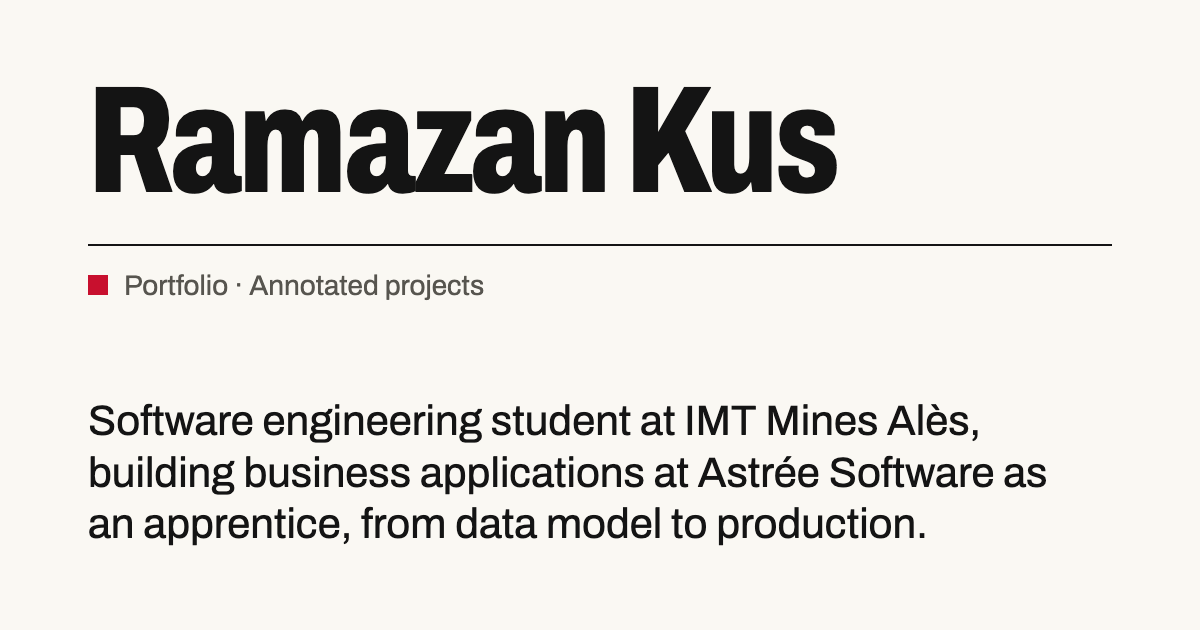
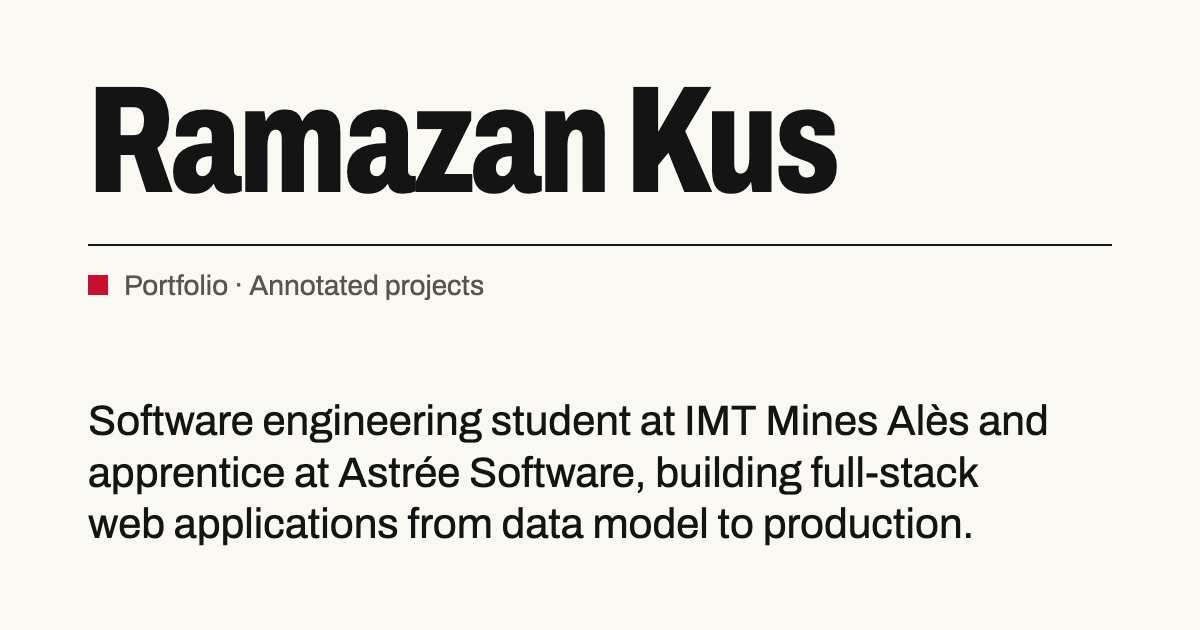
content: describe work as full-stack web applications
The pitch covered only the apprenticeship ("business applications");
personal and school projects are web applications too. Updates the
campaign pitch, CONTENU.md §3 and the regenerated share images.

Changed region(s): [[0.0617, 0.7238, 0.8942, 0.7841], [0.0617, 0.8143, 0.8017, 0.8746], [0.8017, 0.6333, 0.8942, 0.6937]]

diff --git a/scripts/og-image.html b/scripts/og-image.html
@@ -83,16 +83,16 @@
       <div class="header">Portfolio · Projets commentés</div>
       <p>
         Élève ingénieur à IMT Mines Alès, en alternance chez Astrée Software, je
-        développe des applications métier, du modèle de données à la mise en
-        production.
+        développe des applications web full-stack, du modèle de données à la
+        mise en production.
       </p>
     </section>
     <section id="en" lang="en">
       <h1>Ramazan Kus</h1>
       <div class="header">Portfolio · Annotated projects</div>
       <p>
-        Software engineering student at IMT Mines Alès, building business
-        applications at Astrée Software as an apprentice, from data model to
+        Software engineering student at IMT Mines Alès and apprentice at Astrée
+        Software, building full-stack web applications from data model to
         production.
       </p>
     </section>

diff --git a/src/data/campaign.ts b/src/data/campaign.ts
@@ -23,8 +23,8 @@ interface Campaign {
 
 export const campaign: Campaign = {
   pitch: {
-    fr: 'Élève ingénieur à IMT Mines Alès, en alternance chez Astrée Software, je développe des applications métier, du modèle de données à la mise en production.',
-    en: 'Software engineering student at IMT Mines Alès, building business applications at Astrée Software as an apprentice, from data model to production.',
+    fr: 'Élève ingénieur à IMT Mines Alès, en alternance chez Astrée Software, je développe des applications web full-stack, du modèle de données à la mise en production.',
+    en: 'Software engineering student at IMT Mines Alès and apprentice at Astrée Software, building full-stack web applications from data model to production.',
   },
   availability: {
     visible: true,

diff --git a/CONTENU.md b/CONTENU.md
@@ -38,10 +38,10 @@ Hiérarchie actuelle (portée par la campagne, elle bougera) :
 ## 3. Message en une phrase
 
 > **FR** — Élève ingénieur à IMT Mines Alès, en alternance chez Astrée Software, je développe des
-> applications métier, du modèle de données à la mise en production.
+> applications web full-stack, du modèle de données à la mise en production.
 
-> **EN** — Software engineering student at IMT Mines Alès, building business applications at
-> Astrée Software as an apprentice, from data model to production.
+> **EN** — Software engineering student at IMT Mines Alès and apprentice at Astrée Software,
+> building full-stack web applications from data model to production.
 
 Un rôle + une école + une preuve, zéro adjectif, aucune technologie : la stack se montre dans les
 projets et sur `/skills`. Sert aussi de `description` de l'accueil et de
